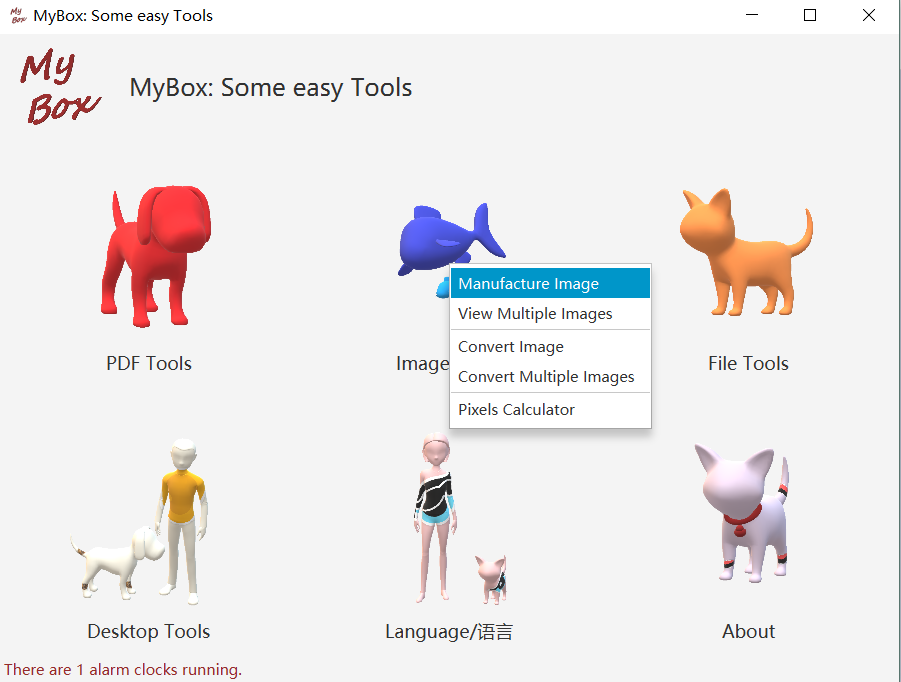
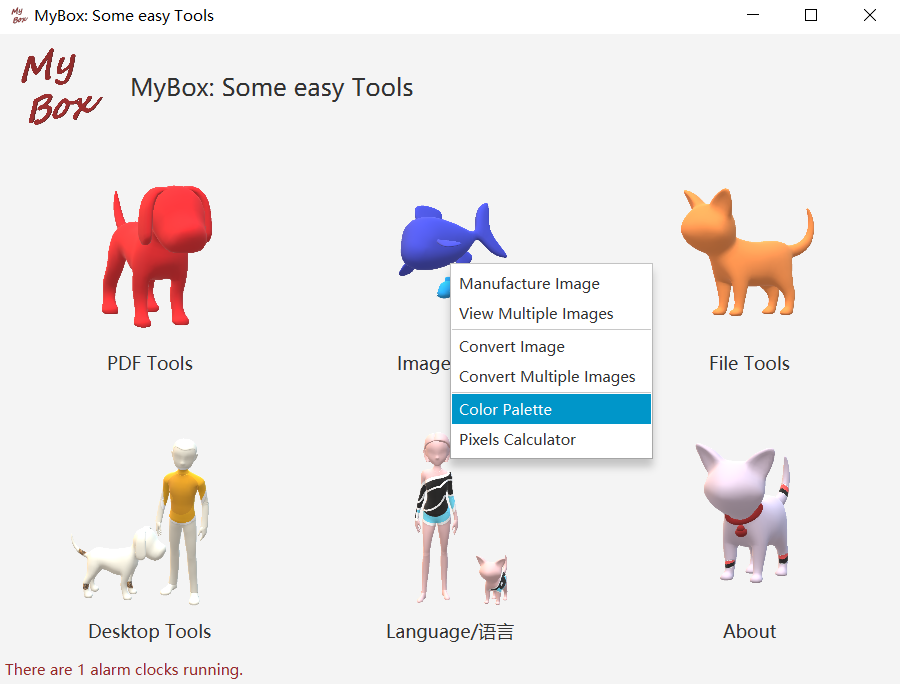
v2.5

diff --git a/docs/english_interface.html b/docs/english_interface.html
@@ -34,19 +34,19 @@
 <a href="https://github.com/Mararsh/MyBox"><img src="home.jpg" width=60px></a> 
 
 <P class="p1">MyBox: Set of Easy Tools</P>
-<img src="7-en.png" width=800px></BR></BR>
+<img src="7-en.jpg" width=800px></BR></BR>
 
 <P class="paragraph">This is GUI program based on JavaFx to provide simple and easy functions. It's free and open sources</P>
 
 <P class="paragraph">Jar packages of each version have been uploaded at Release directory now. You can find them by clicking "releases" tab in main page of this project. </P>
 <P class="paragraph">EXE package is avaliable for users who have not java env. It need not installation and users can run the EXE directly after unpack it.</P>
-<P class="link"><a href="https://github.com/Mararsh/MyBox/releases/download/v2.4/MyBox-2.4-exe.zip">MyBox-2.4-exe.zip</a></P>
+<P class="link"><a href="https://github.com/Mararsh/MyBox/releases/download/v2.4/MyBox-2.4-exe.zip">MyBox-2.5-exe.zip</a></P>
 
 <P class="paragraph">User also can download jar file if JRE or JDK installed, and run following command to launch this program:</P>
 <PRE><CODE>                   java   -jar   MyBox-VERSION.jar</CODE></PRE>
-<P class="link"><a href="https://github.com/Mararsh/MyBox/releases/download/v2.3/MyBox-2.4-jar.zip">MyBox-2.4-jar.zip</a></P>
+<P class="link"><a href="https://github.com/Mararsh/MyBox/releases/download/v2.5/MyBox-2.5-jar.zip">MyBox-2.5-jar.zip</a></P>
 
-<P class="paragraph">Current version is 2.4. It includes the following features: </P>
+<P class="paragraph">Current version is 2.5. It includes the following features: </P>
 <ol>
 <li>Switch interface in Chinese and English at any time. </li>
 <li>Convert each page of PDF file to an image with options of format, density, color,  compression, quality, and color conversion. </li>
@@ -55,10 +55,10 @@
 <li>Convert image files to other formats, with options of color, size, compression, quality, etc. </li>
 <li>Above functions can be run in batching way. User can pause/continue the process. </li>
 <li>Supported image formats: png, jpg, bmp, tif, gif, wbmp, pnm, pcx. </li>
-<li>Manufacture image: Adjust pixels, saturation, lightness, and hue with parameters. Provide filters like gray, invert, or binary. Support images browsering and reference image.</li>
+<li>Manufacture image: Adjust pixels, saturation, lightness, and hue with parameters. Provide filters like gray, invert, or binary. Implement color replacement. Support images browsering and reference image.</li>
 <li>View information and meta data of image files. </li>
 <li>View multiple image files in same screen. Rotate and zoom images separately or at same time. Support multiple images browsering.</li>
-<li>Pixels Calculator. </li>
+<li>Color Palette. Pixels Calculator. </li>
 <li>Rename files under directories, with options about files' name and sorting. All of or part of renamed files can be recovered as originl names.</li>
 <li>Directory synchronization, with options like copying subdirectoies, new files, modified files after some time, original file's attributes, or deleting files and directories which are not in source path, etc.</li>
 <li>Files rearragement that categories files under new directories according to their modify time or create time. This function can be used to handle photoes, games screenshots, or system logs which need archived based on time.</li>
@@ -68,6 +68,7 @@
 
 <BR>
 <P class="p2">Development Logs</P>
+<P class="paragraph">2018-07-25 v2.5  Color palette. And Replace colors in image, by accurate matching of color, or by colors' distance. Color replacement can be used to change the background color of images or eliminate color noise of images.</P>
 <P class="paragraph">2018-07-24 v2.4  Improve functions of Image Manufacture and Multiple Images Viewer: Smoothly switching, reference image, and pixels adjustment.</P>
 <P class="paragraph">2018-07-18 v2.3  Alarm clocks, with options of time and ring. Support rings of "Meow", wav, and mp3. Can run in background. Thanks my GuaiGuai for her contribution of "Meow".</P>
 <P class="paragraph">2018-07-11 v2.2  Fix bug about threads' logic. Files rearragement that categories files under new directories according to their modify time or create time. This function can be used to handle photoes, games screenshots, or system logs which need archived based on time.</P>
@@ -89,6 +90,9 @@
 <BR>
 <P class="p2">Snapshots of this program</P>
 <img src="1-en.png" width=800px></BR></BR></BR>
+<img src="28-en.jpg" width=800px></BR></BR></BR>
+<img src="29-en.jpg" width=800px></BR></BR></BR>
+<img src="30-en.jpg" width=800px></BR></BR></BR>
 <img src="27-en.jpg" width=800px></BR></BR></BR>
 <img src="13-en.jpg" width=800px></BR></BR></BR>
 <img src="24-en.jpg" width=800px></BR></BR></BR>

diff --git a/README.md b/README.md
@@ -2,18 +2,18 @@
 
 ## MyBox：简易工具集
 
-![About](https://mararsh.github.io/MyBox/7.png)
+![About](https://mararsh.github.io/MyBox/7.jpg)
 
 这是利用JavaFx开发的图形化界面程序，目标是提供简单易用的功能。免费开源。
 
 每个版本编译好的包已发布在Release目录下（点击上面的releases页签）
 
-可以下载exe包，无需java环境、无需安装、解包可用： [MyBox-2.4-exe.zip](https://github.com/Mararsh/MyBox/releases/download/v2.4/MyBox-2.4-exe.zip) 
+可以下载exe包，无需java环境、无需安装、解包可用： [MyBox-2.5-exe.zip](https://github.com/Mararsh/MyBox/releases/download/v2.5/MyBox-2.5-exe.zip) 
 
-在已安装JRE或者JDK的环境下，可以下载jar包 [MyBox-2.4-jar.zip](https://github.com/Mararsh/MyBox/releases/download/v2.4/MyBox-2.4-jar.zip) ，执行以下命令来启动程序：
+在已安装JRE或者JDK的环境下，可以下载jar包 [MyBox-2.5-jar.zip](https://github.com/Mararsh/MyBox/releases/download/v2.5/MyBox-2.5-jar.zip) ，执行以下命令来启动程序：
 <PRE><CODE>     java   -jar   MyBox-版本号.jar</CODE></PRE>
 
-当前是版本2.4，已实现的特点：
+当前是版本2.5，已实现的特点：
 1. 随时切换中英文界面 
 2. 将PDF文件的每页转换为一张图片，包含图像密度、色彩、格式、压缩、质量、色彩转换等选项
 3. 将PDF文件中的图片提取出来保存为原格式。
@@ -21,16 +21,18 @@
 5. 将图片转换为其它格式，包含色彩、长宽、压缩、质量等选项。
 6. 以上功能支持批量处理， 可以暂停/继续处理过程。
 7. 支持图像格式：png, jpg, bmp, tif, gif, wbmp, pnm, pcx。
-8. 处理图片：参数化调整像素、饱和度、明暗、色相；提供滤镜：灰色、反色、黑白色。支持导览和对照图。
+8. 处理图片：参数化调整像素、饱和度、明暗、色相；提供滤镜：灰色、反色、黑白色；实现换色。支持导览和对照图。
 9. 查看图片的元数据和属性。
 10. 同屏查看最多十张图，可以分别或者同步旋转和缩放。支持多图导览。
-11. 像素计算器。
+11. 调色盘、像素计算器。
 12. 目录文件重命名，包含文件名和排序的选项。被重命名的文件可以全部恢复或者指定恢复原来的名字。
 13. 目录同步，包含复制子目录、新文件、特定时间以后已修改文件、原文件属性，以及删除源目录不存在文件和目录，等选项
 14. 整理文件，将文件按修改时间或者生成时间重新归类在新目录下。此功能可用于处理照片、游戏截图、和系统日志等需要按时间归档的批量文件。
 15. 闹钟，包括时间选项和音乐选项，支持铃音“喵”、wav铃音、和MP3铃音，可以在后端运行。
 
 ## 开发日志
+
+2018-07-25 版本2.5  调色盘。图像的换色：可以精确匹配颜色、或者设置色距，此功能可以替换图像背景色、或者清除色彩噪声。
 
 2018-07-24 版本2.4  完善图像处理和多图查看：平滑切换、对照图、像素调整。
 
@@ -66,6 +68,18 @@
 ## 应用截图
 
 ![1](https://mararsh.github.io/MyBox/1.png)
+
+
+
+![27](https://mararsh.github.io/MyBox/28.jpg)
+
+
+
+![27](https://mararsh.github.io/MyBox/29.jpg)
+
+
+
+![27](https://mararsh.github.io/MyBox/30.jpg)
 
 
 
